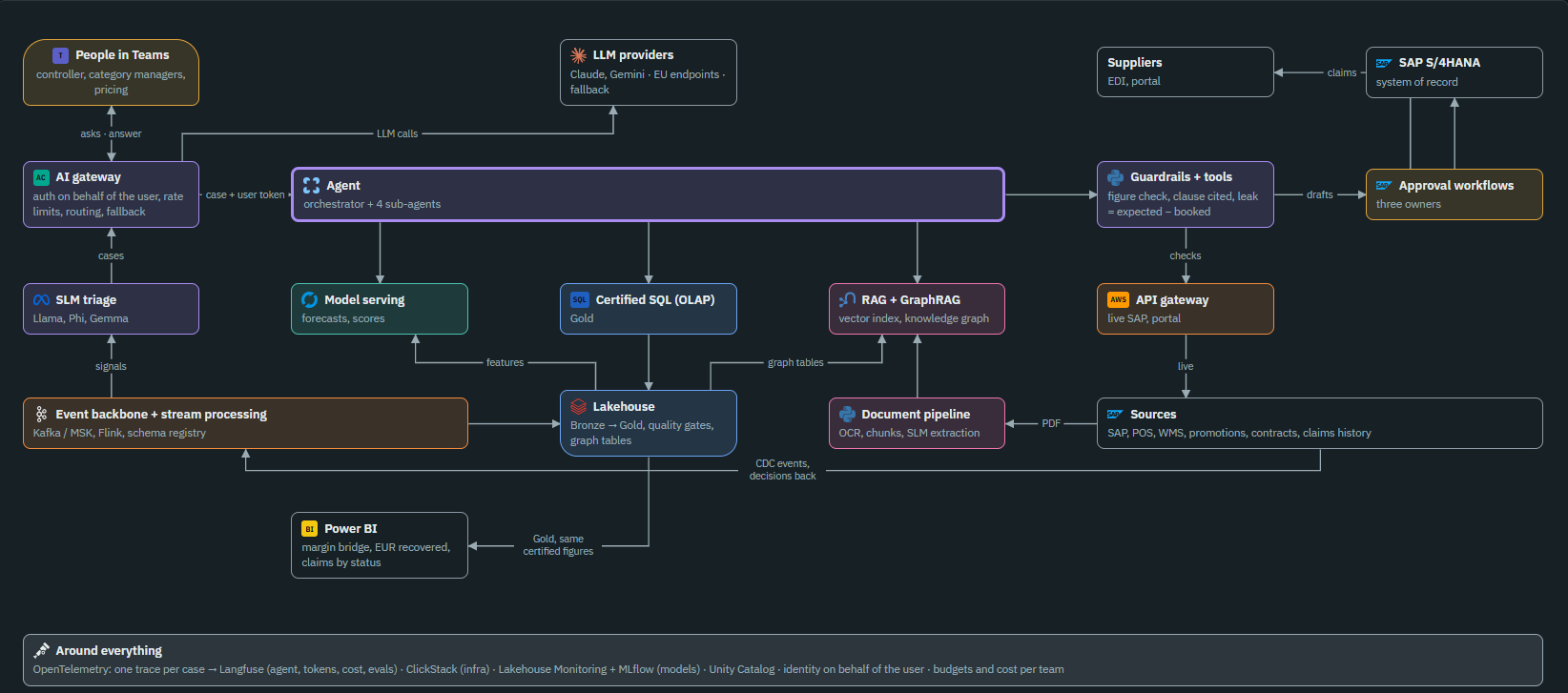
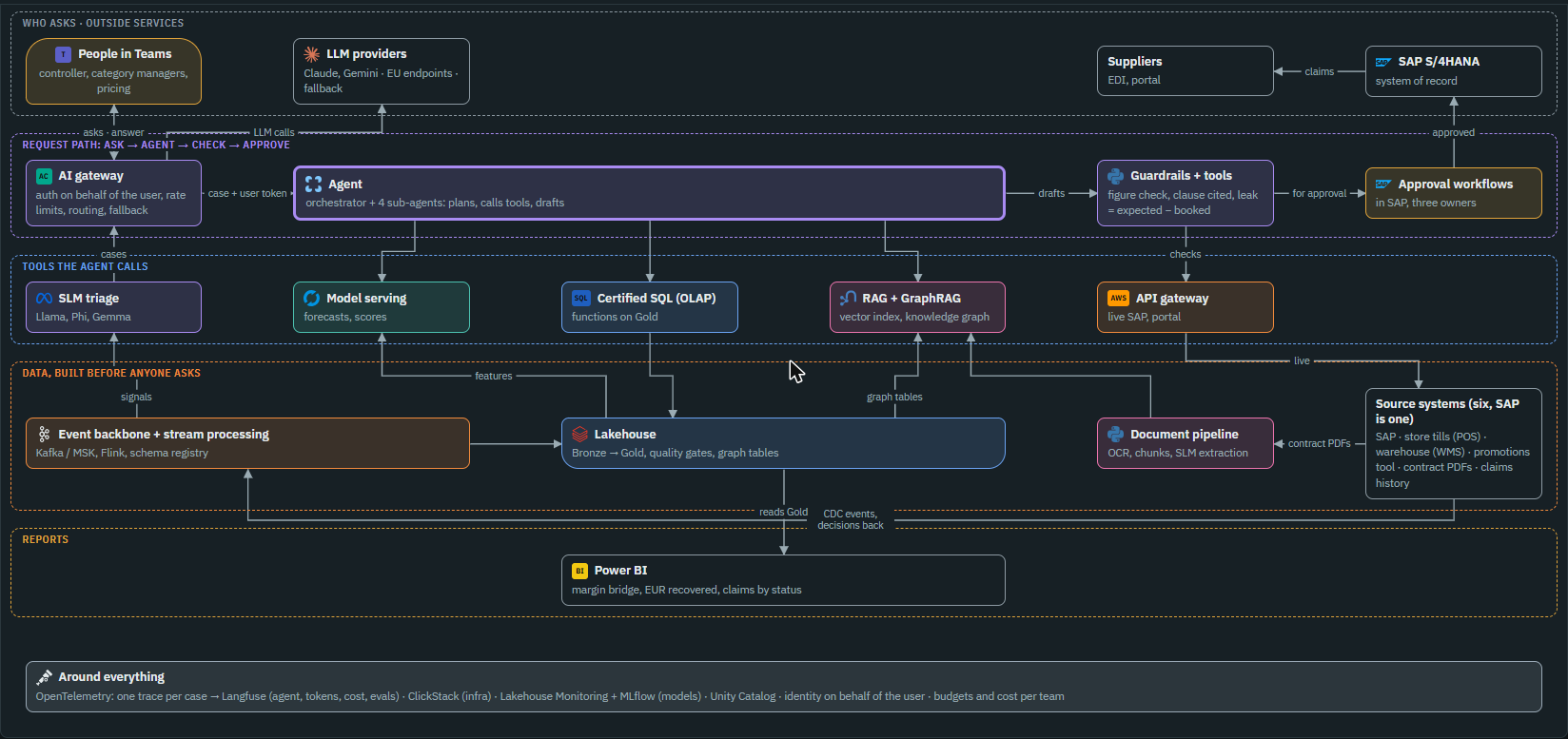
site: Expert HLDs rearranged to read along the request path (target: lanes ask → tools → data → reports; as built: Google, AWS, Databricks blocks) with a step-by-step player that lights up boxes; As built Simple HLD gets the animated walk-through (real August 2026 run); movie stage is now data-drive

diff --git a/site/src/data/architecture/simple.ts b/site/src/data/architecture/simple.ts
@@ -83,36 +83,41 @@ simple: { t: "Five boxes, simply", d: "Press Play and follow one number from a s
     { on: ["gov"], t: "Around everything: keys and cameras", s: "Every program has its own key for only the doors it needs; every action is logged; the cloud bill has a limit." }] },
   { quiz: [["Which box is the only truly new idea?", ["Lakehouse", "ML models", "Agent"], 2, "The library and the sniffer dogs existed before AI. The writer is new."]] },
 ]},
-hld: { t: "How the parts talk, simply", d: "Three clouds, one job. Press Play to follow one real number from a till to the CFO's inbox, with why each box is there.", b: [
+hld: { t: "How the parts talk, simply", d: "Three clouds, one job. Press Play: the controller starts a run, and a little robot (the agent) drafts the month-end commentary.", b: [
   { cards: [
     ["☁ Google Cloud: the agent's home", "The AI agent and its brain (Gemini) live here. Why? Our brand-new AWS account was not yet allowed to run AI models.", "--ml"],
     ["📮 AWS: the post office", "The send tools and email. Every message passes the figure check and the approval check here.", "--gate"],
     ["📚 Databricks on our AWS: the library", "All the data, the models and the seven read-only questions the agent may ask.", "--data"]] },
-  { h: "🧭 One question, start to finish (press Play)" },
-  { q: "The controller's question: “Why did August 2026 miss the budget?” Follow the answer, EUR 3,194,672.51 of sales against a budget of EUR 3,316,400.00, through every box." },
-  { dia: "from", story: [
-    { on: ["src", "jobs", "gold"], t: "1 · Night: build the library", s: "The tills' files arrive. Pipeline jobs clean them and add them up in Gold: August net sales = EUR 3,194,672.51.",
-      why: "Raw files are messy (duplicates, wrong types). Gold is the one version of the numbers everyone trusts. The jobs run under their own robot account, which may build tables but not hand out rights." },
-    { on: ["gold", "ml", "mlf"], t: "2 · The sniffer dogs look", s: "The ML job reads Gold and flags store S031: its margin fell from 31.75% to 24.82%. Scores go back into Gold.",
-      why: "Nobody can read 4.2 million rows. Models spot the odd store or cashier. MLflow keeps the receipts: which model version said what." },
-    { on: ["ctl", "agent"], t: "3 · The controller asks", s: "One click starts the month-end agent on Google Cloud.",
-      why: "Agent Engine hosts the agent: it starts it when asked and switches it off after, so we pay per run, not per hour." },
-    { on: ["agent", "sec"], t: "4 · The key from the safe", s: "The agent takes its Databricks password from Secret Manager.",
-      why: "A password written in the code could be copied by anyone who reads the code. In a safe, only the agent can take it." },
-    { on: ["agent", "mcp", "tab", "gold"], t: "5 · Ask at the counter window", s: "The agent asks “close_overview for August?” through the MCP hatch. The function reads Gold and answers: EUR 3,194,672.51 vs EUR 3,316,400.00, −3.67%.",
-      why: "finance.agent is the counter window of the library. The agent may never walk into the vault (Gold): it can only ask seven fixed questions, and each answer is a total, never a name. Even if the AI went wrong or was tricked, it could not read anything else." },
-    { on: ["agent", "gem"], t: "6 · Thinking and writing", s: "Gemini writes: “Sales were 3.67% below budget. Store S031 lost margin to heavy discounts…”",
-      why: "Gemini is the only part that writes sentences. It only ever sees the totals from step 5, so it has nothing private to leak." },
-    { on: ["agent", "sts", "gw", "lam"], t: "7 · Cross to the post office", s: "To save the draft, the agent swaps its Google ID for a one-hour AWS pass and knocks at the gateway, which calls the send tool (a Lambda).",
-      why: "The agent must not save or send anything by itself, so saving and sending is a separate small program with its own key. The one-hour pass replaces a stored password; the gateway is the only door, and only our agent gets in." },
-    { on: ["lam", "wh", "tab"], t: "8 · The bouncer checks every number", s: "The Lambda re-asks the seven questions through the SQL warehouse, finds EUR 3,194,672.51 in the answers, and files the draft as “pending_review”.",
-      why: "The Lambda is plain code, not AI, so it can't be talked out of its rules. An invented number (we tried “EUR 3.27m”) gets the draft rejected. It goes through the SQL warehouse because that is the Databricks engine that runs SQL when asked." },
-    { on: ["apr", "wh", "tab"], t: "9 · A person says yes", s: "The controller reads the draft and adds one row to the approvals table.",
-      why: "Only the finance-controllers group can write that table: the agent and the Lambda are refused. A row is the simplest “yes” that still proves who approved and when." },
-    { on: ["lam", "ses", "wh", "gold"], w: ["lam>ses", "lam>wh", "wh>gold"], t: "10 · Sent and published", s: "On the next run the Lambda finds the yes, emails the CFO pack (SES) and copies the text into Gold for dashboards.",
-      why: "Only approved text ever leaves. The other two drafts nobody approved are still waiting." },
-    { on: ["obs"], t: "11 · Cameras everywhere", s: "Run logs, job history, alarms, budgets and a record of who touched which table.",
-      why: "If something goes wrong we can replay who did what, when, and what it cost." }] },
+  { h: "🎬 One month-end, start to finish (press Play)" },
+  { movie: {
+    ask: "Draft the August 2026 close commentary.",
+    answer: "Draft ready for review: August sales EUR 3,194,672.51, 3.67% below budget. Store S031 lost margin to heavy discounts. 4 unsupported entries and 4 cashier cases are with internal audit.",
+    stage: { chat: "Month-end agent · start a run", door: "Quality gate", doorAsk: "Is last night's data certified?", badge: ["12 of 12 quality checks ✓", "Gold certified for August ✓"],
+      waiting: ["Checking the data is certified", "The agent is reading the numbers"],
+      stations: [["📊", "Month totals", "sales vs budget"], ["🚨", "Alerts", "stores flagged by the ML models"], ["🔍", "Audit counts", "entries and cashier cases"]],
+      plan: ["the totals", "the alerts", "the audit counts"], calc: "🧮 Figure check (code)",
+      judge: "🧑💼 Controller", idle: "waits for the draft", slip: "draft", slips: 1, done: "Emailed to the CFO pack ✓" },
+    scenes: [
+      { k: "ask", t: "The controller starts a run", s: "One click starts the month-end agent with a request: “Draft the August 2026 close commentary.”",
+        why: "Today the click is a button (a GitHub workflow). In production it would be a Teams message, as in the Enterprise target." },
+      { k: "door", t: "First: is the data certified?", s: "Before anything, a check asks whether last night's data passed all 12 quality checks. If not, the agent stops right there.",
+        why: "A commentary built on unchecked numbers is worse than no commentary." },
+      { k: "wake", t: "The agent wakes up on Google Cloud", s: "Agent Engine starts the agent. It takes its Databricks password from a safe (Secret Manager) and plans three look-ups.",
+        why: "It runs only when asked, so we pay per run, not per hour. The password is never written in the code." },
+      { k: "numbers", t: "Look-up 1: the month totals", card: "EUR 3.19M vs budget EUR 3.32M (−3.67%)", s: "It runs close_overview, one of its seven allowed questions. The answer is a total, never a row.",
+        why: "The agent may only run 7 fixed questions; it cannot open the tables. Even if it were tricked, there is nothing else it could see." },
+      { k: "forecast", t: "Look-up 2: the alerts", card: "Store S031: margin 24.82%, discounts 14.48%", s: "It asks which stores the ML models flagged for margin.",
+        why: "Nobody can read 4.2 million sales rows. The models point at the odd store." },
+      { k: "contracts", t: "Look-up 3: the audit counts", card: "4 entries with no document · 4 cashier cases", s: "It asks for accounting entries with no supporting document, and how many cashier cases went to internal audit: a number, never a name.",
+        why: "Sensitive cases stay with internal audit; the agent only learns how many there are." },
+      { k: "check", t: "Gemini writes, code checks every number", s: "Gemini writes the draft. A small program on AWS (a Lambda) then checks every number against what the look-ups returned. In our test a draft with an invented “EUR 3.27m” was rejected; the next draft passed.",
+        why: "The check is plain code running under its own identity, so the AI cannot talk its way past it.",
+        lines: [["Draft 1: “EUR 3.27m”: no look-up said it ✗", false], ["EUR 3,194,672.51 → close_overview ✓", true], ["24.82% → store_margin_alerts ✓", true], ["Saved as pending_review ✓", true]] },
+      { k: "answer", t: "The draft waits for review", s: "The draft is saved as “pending_review”. Nothing has been sent.",
+        why: "Saving is not sending: the agent has no way to send anything without a person's yes." },
+      { k: "approve", t: "The controller approves, then it is sent", s: "The controller reads the draft and adds one approval row. On the next run the Lambda finds that row, emails the CFO pack and publishes the text for dashboards.",
+        why: "Only the finance-controllers group can write approvals; the agent and the Lambda are refused." }] } },
+  { p: "Want every box and arrow? Switch to <b>Expert</b> at the top right: the same run, step by step on the full diagram." },
   { h: "❓ Questions people ask" },
   { table: ["Question", "Answer"], rows: [
     ["Why does the agent have its own corner, finance.agent?", "It's a wall. Rights in Databricks are given per corner (schema). The agent gets one right: “run the seven questions in finance.agent”. It has no right on Gold itself, so it can't browse tables or change certified numbers. Its drafts and the approvals also live there, away from the finance data."],
@@ -184,6 +189,11 @@ hld: { t: "The building blocks, simply", d: "Press Play: a controller asks one q
   { movie: {
     ask: "Will we earn more money this quarter?",
     answer: "Not as planned: about EUR 1.9M short. But EUR 1.2M can come back if we claim 14 promotions this month. 5 claims are ready for your approval.",
+    stage: { chat: "Teams · Finance close", door: "Front door", doorAsk: "Who is asking?", badge: ["Controller ✓", "Sees finance data only ✓", "Team budget OK ✓"],
+      waiting: ["Checking who you are", "The agent is investigating"],
+      stations: [["📊", "The numbers", "certified sales and margin"], ["📈", "The forecast", "where the quarter ends"], ["📄", "The contracts", "what suppliers promised"]],
+      plan: ["the numbers", "the forecast", "the contracts"], calc: "🧮 Code checks (not AI)",
+      judge: "🧑💼 Category manager", idle: "waits for drafts", slip: "claim", slips: 5, done: "SAP sends them to suppliers" },
     scenes: [
       { k: "ask", t: "The controller asks", s: "In Teams, like messaging a colleague: “Will we earn more money this quarter?”",
         why: "No new tool to learn: people ask where they already work." },

diff --git a/site/src/data/architecture/built.ts b/site/src/data/architecture/built.ts
@@ -70,33 +70,46 @@ simple: { t: "Ultra-simplified architecture", d: "Five boxes. Everything else is
 ]},
 hld: { t: "High-level design", d: "The deployable parts and how they talk, grouped by where they run.", b: [
   { dia: { cols: 6, els: [
-    E("ctl", "person", "Controller", "starts runs, approves", "person", 1, 1, 1, "person"),
+    E("sec", "cont", "Secret Manager", "agent's Databricks client", "googlecloud", 2, 1, 1, "google"),
     E("gem", "ext", "Gemini 3.8 Flash", "Vertex AI, EU", "googlegemini", 3, 1),
-    E("pbi", "ext", "Power BI", "not connected in the trial", "powerbi", 5, 1),
-    E("sec", "cont", "Secret Manager", "agent's Databricks client", "googlecloud", 1, 2, 1, "google"),
+    E("ses", "cont", "Amazon SES", "email to the CFO pack, store controlling, audit", "ses", 6, 1, 1, "aws"),
+    E("ctl", "person", "Controller", "starts a run", "person", 1, 2, 1, "person"),
     E("agent", "cont", "Month-end agent", "Deep Agents on Vertex AI Agent Engine", "googlecloud", 2, 2, 2, "agent", "focus"),
-    E("mcp", "cont", "Managed MCP", "Databricks' MCP server for Unity Catalog functions", "databricks", 4, 2, 1, "dbx"),
-    E("mlf", "cont", "MLflow + registry", "finance.ml", "mlflow", 6, 2, 1, "ml"),
-    E("sts", "cont", "STS + role", "…-agent-gcp", "iam", 1, 3, 1, "aws"),
-    E("gw", "cont", "AgentCore Gateway", "3 MCP tools", "agentcore", 2, 3, 1, "aws"),
-    E("lam", "cont", "Lambda channels", "figure + approval checks", "lambda", 3, 3, 1, "aws"),
-    E("tab", "db", "finance.agent schema", "7 functions · drafts · approvals", "databricks", 4, 3, 1, "dbx"),
-    E("gold", "db", "Lakehouse", "Gold + scores + close_commentary", "databricks", 5, 3, 1, "dbx"),
-    E("ml", "cont", "ML job", "detectors, forecast", "scikitlearn", 6, 3, 1, "ml"),
-    E("ses", "cont", "Amazon SES", "email to the CFO pack, store controlling, audit", "ses", 2, 4, 1, "aws"),
-    E("wh", "cont", "SQL warehouse finance-agent", "serverless 2X-Small, stops after 5 idle min", "sql", 4, 4, 1, "dbx"),
-    E("jobs", "cont", "Pipeline jobs", "Spark, Auto Loader", "apachespark", 5, 4, 1, "dbx"),
-    E("obs", "cont", "Around everything", "Agent run output + Cloud Logging · Databricks Jobs history · CloudTrail → CloudWatch alarms · budgets · Unity Catalog grants and lineage", "opentelemetry", 1, 5, 3, "base"),
-    E("apr", "person", "Controller approves", "one row per draft", "person", 4, 5, 1, "person"),
-    E("src", "ext", "Source files", "synthetic", "python", 5, 5)],
-    bounds: [["Google Cloud · europe-west1", ["sec", "agent"], "--ml", "googlecloud"], ["AWS · eu-central-1", ["sts", "gw", "lam", "ses"], "--gate", "aws"],
-      ["Databricks workspace · our VPC", ["mcp", "wh", "mlf", "tab", "gold", "ml", "jobs"], "--data", "databricks"]],
-    rels: [R("ctl", "agent", "starts", "hv", { f: 0.2 }), R("agent", "gem", "prompts", "v"), R("agent", "sec", "secret"), R("agent", "mcp", "MCP"),
-      R("mcp", "tab", "runs the functions", "v"), R("tab", "gold", "functions read", "h"), R("pbi", "gold", "planned", "v", { dash: 1 }),
-      R("jobs", "gold", "builds", "v"), R("src", "jobs", "files", "v"), R("gold", "ml", "scores", "h", { both: 1 }), R("ml", "mlf", "logs", "v"),
-      R("agent", "sts", "ID token", "v", { f: 0.85 }), R("sts", "gw", "SigV4"), R("gw", "lam", "invoke"),
-      R("lam", "wh", "SQL API", "vh", { e: 0.7 }), R("lam", "ses", "approved", "vh", { e: 0.3 }),
-      R("wh", "tab", "drafts, approvals", "v"), R("wh", "gold", "publish", "v", { e: 0.9, f: 0.2 }), R("apr", "wh", "SQL editor (any warehouse)", "v")] } },
+    E("sts", "cont", "STS + role", "…-agent-gcp", "iam", 4, 2, 1, "aws"),
+    E("gw", "cont", "AgentCore Gateway", "3 MCP tools", "agentcore", 5, 2, 1, "aws"),
+    E("lam", "cont", "Lambda channels", "figure + approval checks", "lambda", 6, 2, 1, "aws"),
+    E("mcp", "cont", "Managed MCP", "Databricks' MCP server for Unity Catalog functions", "databricks", 2, 3, 1, "dbx"),
+    E("tab", "db", "finance.agent schema", "7 functions · drafts · approvals", "databricks", 3, 3, 1, "dbx"),
+    E("wh", "cont", "SQL warehouse finance-agent", "serverless 2X-Small, stops after 5 idle min", "sql", 5, 3, 1, "dbx"),
+    E("mlf", "cont", "MLflow + registry", "finance.ml", "mlflow", 6, 3, 1, "ml"),
+    E("src", "ext", "Source files", "synthetic", "python", 1, 4),
+    E("jobs", "cont", "Pipeline jobs", "Spark, Auto Loader, quality gates", "apachespark", 2, 4, 1, "dbx"),
+    E("gold", "db", "Lakehouse", "Gold + scores + close_commentary", "databricks", 3, 4, 1, "dbx"),
+    E("ml", "cont", "ML job", "detectors, forecast", "scikitlearn", 6, 4, 1, "ml"),
+    E("pbi", "ext", "Power BI", "not connected in the trial", "powerbi", 3, 5),
+    E("apr", "person", "Controller approves", "one row per draft", "person", 5, 5, 1, "person"),
+    E("obs", "cont", "Around everything", "Agent run output + Cloud Logging · Databricks Jobs history · CloudTrail → CloudWatch alarms · budgets · Unity Catalog grants and lineage", "opentelemetry", 1, 6, 6, "base")],
+    bounds: [["Google Cloud · europe-west1", ["sec", "gem", "agent"], "--ml", "googlecloud"], ["AWS · eu-central-1", ["sts", "gw", "lam", "ses"], "--gate", "aws"],
+      ["Databricks workspace · our VPC", ["mcp", "tab", "wh", "mlf", "jobs", "gold", "ml"], "--data", "databricks"]],
+    rels: [R("ctl", "agent", "starts a run"), R("agent", "sec", "secret", "v", { e: 0.25 }), R("agent", "gem", "prompts", "v", { e: 0.75 }),
+      R("agent", "mcp", "MCP", "v", { e: 0.25 }), R("mcp", "tab", "runs the functions"), R("tab", "gold", "functions read", "v", { f: 0.3 }),
+      R("agent", "sts", "ID token"), R("sts", "gw", "SigV4"), R("gw", "lam", "invoke"), R("lam", "ses", "approved", "v"),
+      R("lam", "wh", "SQL API", "v", { e: 0.2, f: 0.8 }), R("wh", "tab", "drafts, approvals"), R("wh", "gold", "publish", "v", { e: 0.3, f: 0.8 }),
+      R("apr", "wh", "approval row (SQL editor)", "v"), R("src", "jobs", "files"), R("jobs", "gold", "builds"), R("gold", "ml", "scores", "h", { both: 1 }), R("ml", "mlf", "logs", "v"),
+      R("pbi", "gold", "planned", "v", { dash: 1 })] },
+    story: [
+      { on: ["src", "jobs", "gold"], w: ["src>jobs", "jobs>gold"], t: "1 · Night: build Gold", s: "Pipeline jobs load the synthetic files with Auto Loader, build Bronze → Silver → Gold and run 12 quality gates. August net sales in Gold: EUR 3,194,672.51." },
+      { on: ["gold", "ml", "mlf"], w: ["gold>ml", "ml>mlf"], t: "2 · Score and forecast", s: "The ML job reads certified Gold, writes fraud scores, margin alerts and the forecast back as Gold tables, and logs runs and model versions to MLflow." },
+      { on: ["ctl", "agent"], w: ["ctl>agent"], t: "3 · The controller starts a run", s: "A GitHub workflow starts the month-end agent on Vertex AI Agent Engine for August 2026." },
+      { on: ["agent", "sec"], w: ["agent>sec"], t: "4 · The secret", s: "The agent reads its Databricks OAuth client from Secret Manager; nothing is in the code or the image." },
+      { on: ["agent", "mcp", "tab", "gold"], w: ["agent>mcp", "mcp>tab", "tab>gold"], t: "5 · Read through 7 functions", s: "Over MCP, the managed server runs the functions in finance.agent: gold_certification_status first (stop if not certified), then close_overview, store_margin_alerts, reconciliation_exceptions, cashier_case_count… They run with the owner's rights and return aggregates only." },
+      { on: ["agent", "gem"], w: ["agent>gem"], t: "6 · Draft", s: "The orchestrator delegates to three sub-agents; Gemini 3.8 Flash writes the CFO commentary and two notes from the tool outputs." },
+      { on: ["agent", "sts", "gw", "lam"], w: ["agent>sts", "sts>gw", "gw>lam"], t: "7 · Cross to AWS", s: "The agent swaps its Google ID token for a one-hour AWS role (STS), signs the call (SigV4) and calls AgentCore Gateway, which invokes the Lambda." },
+      { on: ["lam", "wh", "tab"], w: ["lam>wh", "wh>tab"], t: "8 · Figure check, then store", s: "The Lambda re-runs the functions through the finance-agent warehouse and checks every number. A draft with the invented “EUR 3.27m” became rejected_by_check; the next one was stored as pending_review." },
+      { on: ["apr", "wh", "tab"], w: ["apr>wh", "wh>tab"], t: "9 · A person approves", s: "The controller writes one row in finance.agent.approvals in the SQL editor. Only finance-controllers may; the agent and the Lambda are refused." },
+      { on: ["lam", "ses", "wh", "gold"], w: ["lam>ses", "lam>wh", "wh>gold"], t: "10 · Send and publish", s: "Next run, send_approved: the Lambda finds the approval, emails the draft through SES and publishes it to gold.close_commentary. Unapproved drafts stay put." },
+      { on: ["pbi", "gold"], w: ["pbi>gold"], t: "11 · Dashboards (planned)", s: "Power BI would read gold.close_commentary and Gold; not connected in the trial." },
+      { on: ["obs"], t: "12 · Around everything", s: "Agent run output and Cloud Logging, Databricks Jobs history, CloudTrail → CloudWatch alarms, budgets, Unity Catalog grants and lineage." }] },
   { h: "Read it step by step (one month-end run)" },
   { table: ["#", "What happens", "Built with"], rows: [
     ["1", "Pipeline jobs build Bronze → Silver → Gold every night and run the quality gates", "Spark on Databricks job clusters"],

diff --git a/site/src/data/architecture/target.ts b/site/src/data/architecture/target.ts
@@ -77,28 +77,43 @@ simple: { t: "Ultra-simplified architecture", d: "Five layers and a loop.", b: [
 ]},
 hld: { t: "High-level design", d: "The target building blocks. Green-dot items in the landscape already exist in this project.", b: [
   { dia: { cols: 6, els: [
-    E("ppl", "person", "People in Teams", "controller, category managers, pricing", "teams", 1, 1, 1, "person"),
-    E("llm", "ext", "LLM providers", "Claude, Gemini · EU endpoints · fallback", "claude", 3, 1),
+    E("llm", "ext", "LLM providers", "Claude, Gemini · EU endpoints · fallback", "claude", 2, 1),
     E("sup", "ext", "Suppliers", "EDI, portal", "", 5, 1), E("sap", "ext", "SAP S/4HANA", "system of record", "sap", 6, 1),
+    E("ppl", "person", "People in Teams", "controller, category managers, pricing", "teams", 1, 1, 1, "person"),
     E("gw", "cont", "AI gateway", "auth on behalf of the user, rate limits, routing, fallback", "agentcore", 1, 2, 1, "agent"),
-    E("ag", "cont", "Agent", "orchestrator + 4 sub-agents", "langgraph", 2, 2, 3, "agent", "focus"),
+    E("ag", "cont", "Agent", "orchestrator + 4 sub-agents: plans, calls tools, drafts", "langgraph", 2, 2, 3, "agent", "focus"),
     E("gr", "cont", "Guardrails + tools", "figure check, clause cited, leak = expected − booked", "python", 5, 2, 1, "agent"),
-    E("wf", "cont", "Approval workflows", "three owners", "sap", 6, 2, 1, "people"),
+    E("wf", "cont", "Approval workflows", "in SAP, three owners", "sap", 6, 2, 1, "people"),
     E("slm", "cont", "SLM triage", "Llama, Phi, Gemma", "meta", 1, 3, 1, "agent"),
     E("mls", "cont", "Model serving", "forecasts, scores", "mlflow", 2, 3, 1, "ml"),
-    E("olap", "cont", "Certified SQL (OLAP)", "Gold", "sql", 3, 3, 1, "data"),
+    E("olap", "cont", "Certified SQL (OLAP)", "functions on Gold", "sql", 3, 3, 1, "data"),
     E("kn", "cont", "RAG + GraphRAG", "vector index, knowledge graph", "neo4j", 4, 3, 1, "know"),
     E("api", "cont", "API gateway", "live SAP, portal", "aws", 5, 3, 1, "gate"),
     E("st", "cont", "Event backbone + stream processing", "Kafka / MSK, Flink, schema registry", "apachekafka", 1, 4, 2, "gate"),
-    E("lake", "db", "Lakehouse", "Bronze → Gold, quality gates, graph tables", "databricks", 3, 4, 1, "data"),
-    E("doc", "cont", "Document pipeline", "OCR, chunks, SLM extraction", "python", 4, 4, 1, "know"),
-    E("src", "ext", "Source systems (six, SAP is one)", "SAP · store tills (POS) · warehouse (WMS) · promotions tool · contract PDFs · claims history", "", 5, 4, 2),
-    E("pbi", "ext", "Power BI", "margin bridge, EUR recovered, claims by status", "powerbi", 2, 5),
+    E("lake", "db", "Lakehouse", "Bronze → Gold, quality gates, graph tables", "databricks", 3, 4, 2, "data"),
+    E("doc", "cont", "Document pipeline", "OCR, chunks, SLM extraction", "python", 5, 4, 1, "know"),
+    E("src", "ext", "Source systems (six, SAP is one)", "SAP · store tills (POS) · warehouse (WMS) · promotions tool · contract PDFs · claims history", "", 6, 4, 1),
+    E("pbi", "ext", "Power BI", "margin bridge, EUR recovered, claims by status", "powerbi", 3, 5, 2),
     E("obs", "cont", "Around everything", "OpenTelemetry: one trace per case → Langfuse (agent, tokens, cost, evals) · ClickStack (infra) · Lakehouse Monitoring + MLflow (models) · Unity Catalog · identity on behalf of the user · budgets and cost per team", "opentelemetry", 1, 6, 6, "base")],
-    rels: [R("ppl", "gw", "asks · answer", "v", { both: 1 }), R("gw", "ag", "case + user token"), R("gw", "llm", "LLM calls", "v", { e: 0.9, f: 0.3 }), R("ag", "gr"), R("gr", "wf", "drafts"), R("wf", "sap", "", "v"), R("wf", "sup", "claims", "vh", { e: 0.25 }),
-      R("ag", "mls", "", "v"), R("ag", "olap", "", "v"), R("ag", "kn", "", "v"), R("gr", "api", "checks", "v"), R("st", "slm", "signals", "v"), R("slm", "gw", "cases", "v"),
-      R("st", "lake"), R("olap", "lake", "", "v"), R("lake", "mls", "features", "v", { e: 0.2, f: 0.7 }), R("lake", "kn", "graph tables", "v", { e: 0.85, f: 0.3 }),
-      R("doc", "kn", "", "v"), R("src", "doc", "PDF"), R("api", "src", "live", "v"), R("src", "st", "CDC events, decisions back", "u"), R("lake", "pbi", "Gold, same certified figures", "vh")] } },
+    lanes: [["Who asks · outside services", 1, "--ext"], ["Request path: ask → agent → check → approve", 2, "--agent"], ["Tools the agent calls", 3, "--data"], ["Data, built before anyone asks", 4, "--gate"], ["Reports", 5, "--people"]],
+    rels: [R("ppl", "gw", "asks · answer", "v", { both: 1 }), R("gw", "ag", "case + user token"), R("gw", "llm", "LLM calls", "v", { e: 0.8 }),
+      R("ag", "gr", "drafts"), R("gr", "wf", "for approval"), R("wf", "sap", "approved", "v"), R("sap", "sup", "claims"),
+      R("ag", "mls", "", "v", { e: 0.17 }), R("ag", "olap", "", "v"), R("ag", "kn", "", "v", { e: 0.83 }), R("gr", "api", "checks", "v"), R("api", "src", "live", "v", { f: 0.3 }),
+      R("st", "slm", "signals", "v", { e: 0.25 }), R("slm", "gw", "cases", "v"), R("st", "lake"), R("olap", "lake", "", "v", { f: 0.25 }),
+      R("lake", "mls", "features", "v", { e: 0.1 }), R("lake", "kn", "graph tables", "v", { e: 0.75 }), R("doc", "kn", "", "v", { e: 0.3, f: 0.8 }),
+      R("src", "doc", "contract PDFs"), R("src", "st", "CDC events, decisions back", "u"), R("lake", "pbi", "reads Gold", "v")] },
+    story: [
+      { on: ["ppl", "gw"], w: ["ppl>gw"], t: "1 · The controller asks", s: "“Will we earn more money this quarter?” in Teams, with company SSO. The AI gateway exchanges the user's token (OAuth on behalf of), checks rate limits and the team's budget." },
+      { on: ["st", "slm", "gw"], w: ["st>slm", "slm>gw"], t: "2 · Pushed cases join", s: "Stream rules on Kafka publish margin signals all quarter; the SLM keeps 23 real cases out of 312 and sends them through the same gateway." },
+      { on: ["gw", "ag", "llm"], w: ["gw>ag", "gw>llm"], t: "3 · The agent plans", s: "The orchestrator gets the question and the cases with the user's token, and plans. Every LLM call goes through the gateway: routing, fallback, cost per team, logs." },
+      { on: ["ag", "olap", "mls", "kn"], w: ["ag>olap", "ag>mls", "ag>kn"], t: "4 · Tools: where, where to, why", s: "Certified SQL: margin so far by category and supplier. Model serving: the quarter ends EUR 1.9M below plan. RAG + GraphRAG: 14 promotions never claimed, with the clause for each." },
+      { on: ["src", "st", "lake", "doc", "olap", "mls", "kn"], w: ["src>st", "st>lake", "olap>lake", "lake>mls", "lake>kn", "src>doc", "doc>kn"], t: "5 · What the tools stand on", s: "Six source systems publish their changes (CDC) to Kafka; Bronze → Gold builds the lakehouse; contracts go through OCR into the vector index and the graph. This runs all the time, before anyone asks." },
+      { on: ["ag", "gr", "api", "src"], w: ["ag>gr", "gr>api", "api>src"], t: "6 · Compute and check", s: "compute_leak returns rate × cost − claimed per promotion: EUR 1.2M in total. The figure check rejects any number not in this run's tool outputs. The API gateway confirms live in SAP that nothing was claimed yet." },
+      { on: ["ag", "gw", "ppl"], w: ["gw>ag", "ppl>gw"], t: "7 · The answer", s: "Back through the gateway to Teams: about EUR 1.9M short, EUR 1.2M recoverable, 5 claims ready for approval." },
+      { on: ["gr", "wf", "sap", "sup"], w: ["gr>wf", "wf>sap", "sap>sup"], t: "8 · Approve and act", s: "The 5 drafts go to SAP approval workflows; the category manager approves under their own identity; SAP sends the claims to the suppliers." },
+      { on: ["sap", "src", "st"], w: ["src>st"], t: "9 · Learn", s: "Each decision (approved, rejected, paid) comes back as an event and becomes a label for the models and a new test case." },
+      { on: ["lake", "pbi"], w: ["lake>pbi"], t: "10 · Report", s: "Power BI reads the same certified Gold: margin bridge, EUR recovered, claims by status. Dashboards and agent never disagree." },
+      { on: ["obs"], t: "11 · Around everything", s: "One OpenTelemetry trace per case, from the Kafka event to the approved claim: agent steps, tokens and cost in Langfuse, infra in ClickStack, models in Lakehouse Monitoring." }] },
   { table: ["Layer", "Practice", "Example products"], rows: [
     ["Event streaming", "CDC from SAP, schema registry, stream rules, decisions back as events", "Kafka / MSK, SAP Event Mesh, Flink, Debezium"],
     ["Lakehouse + OLAP", "Bronze → Gold, quality gates, graph tables, certified SQL functions as tools", "Databricks, Unity Catalog"],

diff --git a/site/src/components/architecture/Movie.svelte b/site/src/components/architecture/Movie.svelte
@@ -23,11 +23,9 @@
   const pos = $derived(SPOT[sc.k]);
   const asleep = $derived(i < at("wake"));
   const looking = $derived(["numbers", "forecast", "contracts"].includes(sc.k));
-  const STATIONS: [SceneKey, string, string, string][] = [
-    ["numbers", "📊", "The numbers", "certified sales and margin"],
-    ["forecast", "📈", "The forecast", "where the quarter ends"],
-    ["contracts", "📄", "The contracts", "what suppliers promised"],
-  ];
+  const KEYS: SceneKey[] = ["numbers", "forecast", "contracts"];     // the three look-up scenes, in station order
+  const st = $derived(m.stage);
+  const STATIONS = $derived(st.stations.map(([ic, t, sub], n) => [KEYS[n], ic, t, sub] as [SceneKey, string, string, string]));
   const card = (k: SceneKey) => m.scenes[at(k)]?.card ?? "";
   const lines = $derived(m.scenes[at("check")]?.lines ?? []);
 
@@ -87,7 +85,7 @@
 
       <!-- Teams chat -->
       <div class="m-chat" class:m-hot={now("ask") || now("answer")}>
-        <div class="m-bar"><span class="m-tm">T</span>Teams · Finance close</div>
+        <div class="m-bar"><span class="m-tm">T</span>{st.chat}</div>
         <div class="m-msgs">
           <div class="m-me">
             <span class="m-bub">{askShown}{#if now("ask") && typed < m.ask.length}<i class="m-caret"></i>{/if}</span>
@@ -95,7 +93,7 @@
           </div>
           {#if now("ask") && typed >= m.ask.length}<div class="m-tick">Sent ✓</div>{/if}
           {#if past("door") && !past("answer")}
-            <div class="m-status">{now("door") ? "Checking who you are" : "The agent is investigating"}<span class="m-dots3"><i></i><i></i><i></i></span></div>
+            <div class="m-status">{now("door") ? st.waiting[0] : st.waiting[1]}<span class="m-dots3"><i></i><i></i><i></i></span></div>
           {/if}
           {#if ansShown}
             <div class="m-them">
@@ -112,12 +110,12 @@
           <path d="M6 128 V40 a24 24 0 0 1 48 0 V128" fill="none" stroke="currentColor" stroke-width="6" stroke-linecap="round" />
           <circle cx="30" cy="30" r="7" class="m-lamp" />
         </svg>
-        <span class="m-lbl">Front door</span>
+        <span class="m-lbl">{st.door}</span>
       </div>
       {#if now("door")}
         <div class="m-badge m-pop">
-          <b>Who is asking?</b>
-          <span>Controller ✓</span><span>Sees finance data only ✓</span><span>Team budget OK ✓</span>
+          <b>{st.doorAsk}</b>
+          {#each st.badge as l}<span>{l}</span>{/each}
         </div>
       {/if}
 
@@ -126,7 +124,7 @@
 
       <!-- three tool stations -->
       {#each STATIONS as [key, ic, t, sub]}
-        {@const x = 390 + 138 * STATIONS.findIndex(s => s[0] === key)}
+        {@const x = 390 + 138 * KEYS.indexOf(key)}
         <div class="m-stn" class:m-hot={now(key)} class:m-done={past(key)} style="left:{x}px">
           <b>{ic} {t}</b><small>{sub}</small>
           {#if past(key)}<span class="m-found" class:m-pop={now(key)}>{card(key)}</span>{/if}
@@ -135,7 +133,7 @@
 
       <!-- code checks -->
       <div class="m-calc" class:m-hot={now("check")}>
-        <b>🧮 Code checks (not AI)</b>
+        <b>{st.calc}</b>
         {#if past("check")}
           {#each lines.filter(([, ok]) => ok || now("check")) as [t, ok], n}
             <span class="m-ln" class:m-bad={!ok} class:m-toss={!ok && now("check")} style="--d:{n * 0.9}s">{t}</span>
@@ -145,19 +143,19 @@
 
       <!-- the approver -->
       <div class="m-appr" class:m-hot={now("approve")}>
-        <b>🧑💼 Category manager</b>
+        <b>{st.judge}</b>
         {#if past("approve")}
-          <div class="m-slips">{#each [0, 1, 2, 3, 4] as n}<span class="m-slip" style="--d:{n * 0.15}s">claim</span>{/each}</div>
+          <div class="m-slips">{#each Array(st.slips) as _, n}<span class="m-slip" style="--d:{n * 0.15}s">{st.slip}</span>{/each}</div>
           <span class="m-ok">Approve ✓</span>
-          <small class="m-sap">SAP sends them to suppliers</small>
+          <small class="m-sap">{st.done}</small>
         {:else}
-          <small>waits for drafts</small>
+          <small>{st.idle}</small>
         {/if}
       </div>
 
       <!-- the robot (the agent) -->
       <div class="m-bot" class:m-asleep={asleep} class:m-moving={moving} class:m-looking={looking} style="left:{pos[0]}px;top:{pos[1]}px">
-        {#if now("wake")}<div class="m-think m-pop"><b>My plan</b>① the numbers<br />② the forecast<br />③ the contracts</div>{/if}
+        {#if now("wake")}<div class="m-think m-pop"><b>My plan</b>{#each st.plan as l, n}{"①②③④"[n]} {l}<br />{/each}</div>{/if}
         {#if asleep}<span class="m-z m-z1">z</span><span class="m-z m-z2">z</span><span class="m-z m-z3">Z</span>{/if}
         <svg viewBox="0 0 80 88" width="80" height="88">
           <line x1="36" y1="4" x2="36" y2="15" stroke="currentColor" stroke-width="3" />

diff --git a/site/src/data/types.ts b/site/src/data/types.ts
@@ -70,7 +70,13 @@ export interface Approve { draft: string; yes: string[]; no: string[] }
 /** One scene per key; Movie.svelte draws each key's picture, the data gives the words. */
 export type SceneKey = "ask" | "door" | "wake" | "numbers" | "forecast" | "contracts" | "check" | "answer" | "approve";
 export interface Scene { k: SceneKey; t: string; s: string; why: string; card?: string; lines?: [text: string, ok: boolean][] }
-export interface Movie { ask: string; answer: string; scenes: Scene[] }
+/** The props on the stage: chat title, the door and its checks, three tool stations, the checker, the approver. */
+export interface Stage {
+  chat: string; door: string; doorAsk: string; badge: string[]; waiting: [atDoor: string, working: string];
+  stations: [icon: string, title: string, sub: string][]; plan: string[]; calc: string;
+  judge: string; idle: string; slip: string; slips: number; done: string;
+}
+export interface Movie { ask: string; answer: string; stage: Stage; scenes: Scene[] }
 
 export interface Section { t: string; d: string; b: Block[] }
 export type SecKey = "big" | "flow" | "simple" | "hld" | "lld" | "net" | "obs" | "eval" | "sec" | "more";
